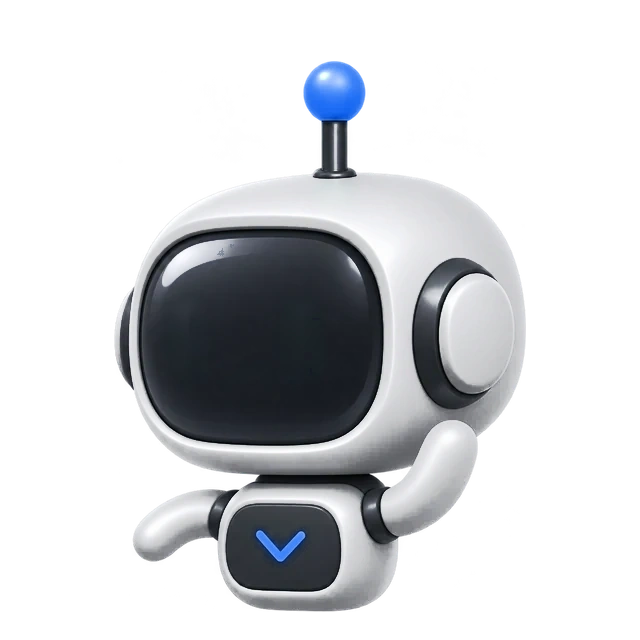
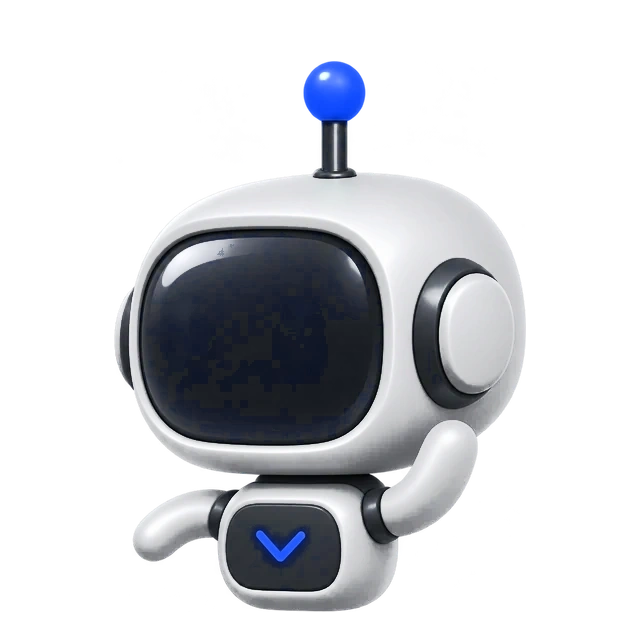
style(web): deepen and saturate xiaoxu mascot blue accents (#25)

Changed region(s): [[0.4688, 0.0938, 0.5938, 0.1875], [0.4062, 0.8125, 0.4688, 0.875]]

diff --git a/apps/web/src/sidebar-assistant.css b/apps/web/src/sidebar-assistant.css
@@ -101,11 +101,11 @@
   width: 100%;
   height: 100%;
   border-radius: 999px;
-  background: #4f8cff;
+  background: #1668ff;
   box-shadow:
-    0 0 0.6px #4f8cff,
-    0 0 2px rgb(79 140 255 / 75%),
-    0 0 4px rgb(79 140 255 / 35%);
+    0 0 0.6px #1668ff,
+    0 0 2px rgb(22 104 255 / 85%),
+    0 0 5px rgb(22 104 255 / 50%);
   transform-origin: 50% 50%;
   animation: companion-blink 5.4s ease-in-out infinite;
 }
@@ -171,14 +171,14 @@
     var(--companion-mouth-x, 0px),
     var(--companion-mouth-y, 0px)
   );
-  filter: drop-shadow(0 0 0.6px #4f8cff)
-    drop-shadow(0 0 2px rgb(79 140 255 / 70%))
-    drop-shadow(0 0 4px rgb(79 140 255 / 35%));
+  filter: drop-shadow(0 0 0.6px #1668ff)
+    drop-shadow(0 0 2px rgb(22 104 255 / 80%))
+    drop-shadow(0 0 5px rgb(22 104 255 / 45%));
 }
 .companion-mouth-smile,
 .companion-mouth-open {
   fill: none;
-  stroke: #4f8cff;
+  stroke: #1668ff;
   stroke-linecap: round;
   stroke-linejoin: round;
 }
